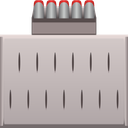
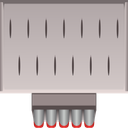
Bana ändring

diff --git a/source/tilemap.c b/source/tilemap.c
@@ -18,11 +18,11 @@ SDL_Rect getTileSrcByID(int tileID)
 // Varje heltal representerar ett tileID; -1 betyder tom yta (inget ska ritas).
 int tilemap[MAP_HEIGHT][MAP_WIDTH] = {
     {109, 2, 1, 6, 104, -1, 104, 5, 1, 4, 105},
-    {-1, 0, 115, 0, -1, -1, -1, 0, 107, 0, -1},
+    {-1, 0, 116, 0, -1, -1, -1, 0, 107, 0, -1},
     {-1, 0, -1, 0, 104, 112, 104, 0, -1, 0, -1},
-    {-1, 0, 115, 23, 1, 1, 1, 24, 115, 0, -1},
-    {-1, 41, 113, -1, -1, -1, -1, -1, 113, 0, -1},
-    {111, 38, 1, 1, 1, 1, 1, 1, 1, 40, 110}};
+    {111, 0, 115, 23, 1, 1, 1, 24, 115, 0, -1},
+    {-1, 41, 117, -1, -1, -1, -1, -1, 106, 0, -1},
+    {113, 38, 1, 1, 1, 1, 1, 1, 1, 40, 110}};
 
 // Gör hela bakgrunden till gräs
 void renderGrassBackground(SDL_Renderer *pRenderer, SDL_Texture **pTiles, int grassTileID)

diff --git a/source/resources.c b/source/resources.c
@@ -532,7 +532,7 @@ bool loadResources(GameResources *pRes)
     const char *decorFilenames[NUM_DECOR_TILES] = {
         "Bush_01.png", "Race_Flag.png", "Decor_Building_01.png", "Decor_Building_02.png",
         "Finish.png", "Pavilion_01.png", "Pavilion_02.png", "Racing_Lights.png",
-        "Water_Tile.png", "Rock_02.png", "Start.png", "Tree_01.png", "Tree_02.png"};
+        "Water_Tile.png", "Rock_02.png", "Start.png", "Tree_01.png", "Tree_02.png", "Tribune_full.png"};
 
     for (int i = 0; i < NUM_DECOR_TILES; i++)
     {

diff --git a/include/tilemap.h b/include/tilemap.h
@@ -10,7 +10,7 @@
 #define MAP_HEIGHT 6         // Höjd på tilemap (antal rader)
 #define NUM_ASPHALT_TILES 90 // Antal asfalt-tiles
 #define NUM_GRASS_TILES 14   // Antal gräs-tiles
-#define NUM_DECOR_TILES 13   // Antal dekorationer
+#define NUM_DECOR_TILES 14   // Antal dekorationer
 #define TILE_OFFSET_ASPHALT 0
 #define TILE_OFFSET_GRASS (TILE_OFFSET_ASPHALT + NUM_ASPHALT_TILES)
 #define TILE_OFFSET_DECOR (TILE_OFFSET_GRASS + NUM_GRASS_TILES)
